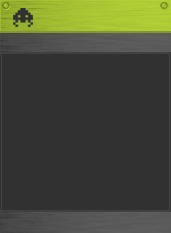
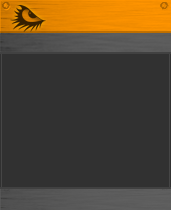
Clock

Changed region(s): [[0.0, 0.0, 1.0, 0.1714], [0.117, 0.2, 1.0, 0.2571], [0.2632, 0.8857, 1.0, 0.9143]]

diff --git a/Skins/IEView/Cult/style.css b/Skins/IEView/Cult/style.css
@@ -15,7 +15,7 @@ word-wrap: break-word;
 
 
 .messageInGroup, .messageIn { background: #404040; }
-.messageInGroup .header, .messageIn .header { color: #b0d035; font-weight: bold;}
+.messageInGroup .header, .messageIn .header { color: #ff9400; font-weight: bold;}
 
 
 
